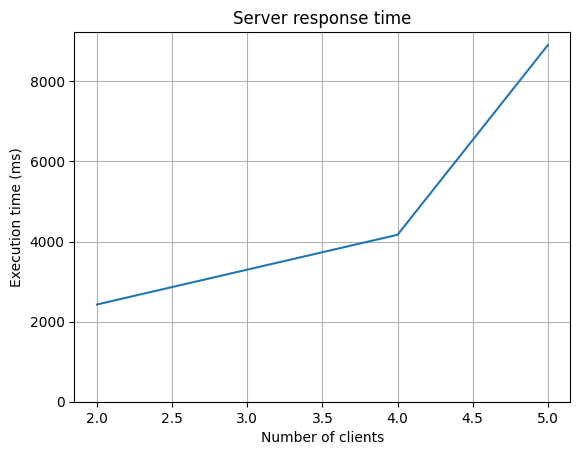
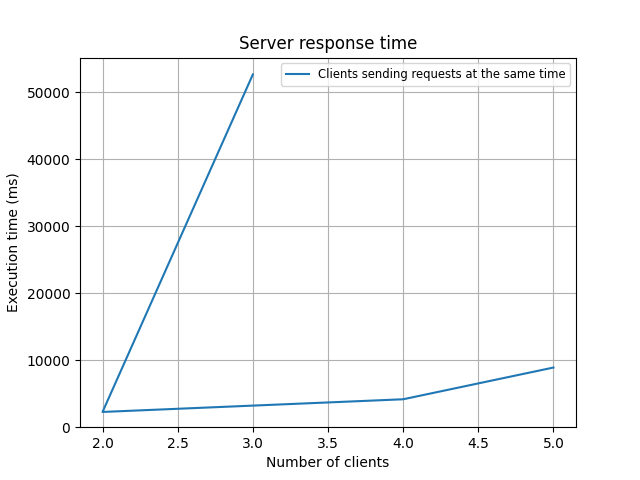
graph simple bruteforce OK

diff --git a/plot.py b/plot.py
@@ -4,7 +4,7 @@ import numpy.polynomial.polynomial as poly
 from scipy.interpolate import CubicSpline as CS
 
 files = ["graphs/poolpassword.txt", "graphs/onepassword.txt", "graphs/simplebruteforce.txt", "graphs/printfile_pass_opti.txt", "graphs/printfile.txt"]
-titles = ["Server response time"]
+titles = ["Server response time", "Bruteforce execution time"]
 x_axis = 'Number of clients'
 X_axis2 = 'Password length'
 y_axis = 'Execution time (ms)'
@@ -78,8 +78,8 @@ def make_plot(table, title,name,lab):
     plt.xlabel(x_axis)
     plt.ylim(bottom=0)
     plt.grid()
-    # plt.legend(loc='best', ncol=2, fontsize='xx-small', labelspacing=0)
-    plt.savefig(name, bbox_inches='tight')
+    plt.legend(loc='best', fontsize='small')
+    plt.savefig(name)
     plt.close()
 
 def make_plot2(table, title,name,lab):
@@ -94,13 +94,13 @@ def make_plot2(table, title,name,lab):
     plt.xlabel('Password length')
     plt.ylim(bottom=0)
     plt.grid()
-    # plt.legend(loc='best', ncol=2, fontsize='xx-small', labelspacing=0)
-    plt.savefig(name, bbox_inches='tight')
+    plt.legend(loc='best', fontsize='small')
+    plt.savefig(name)
     plt.close()
 
 make_plot(d1,titles[0],names[0],'Clients sending requests at the same time')
 make_plot(d2,titles[0],names[1],'Clients requests delayed')
-make_plot2(d3,titles[0],names[2],'Basic bruteforce')
+make_plot2(d3,titles[1],names[2],'Basic bruteforce')
 #make_plot2(d4,titles[0],names[3],'Optimized server')
 
 print("Graphs generated in graphs directory")
